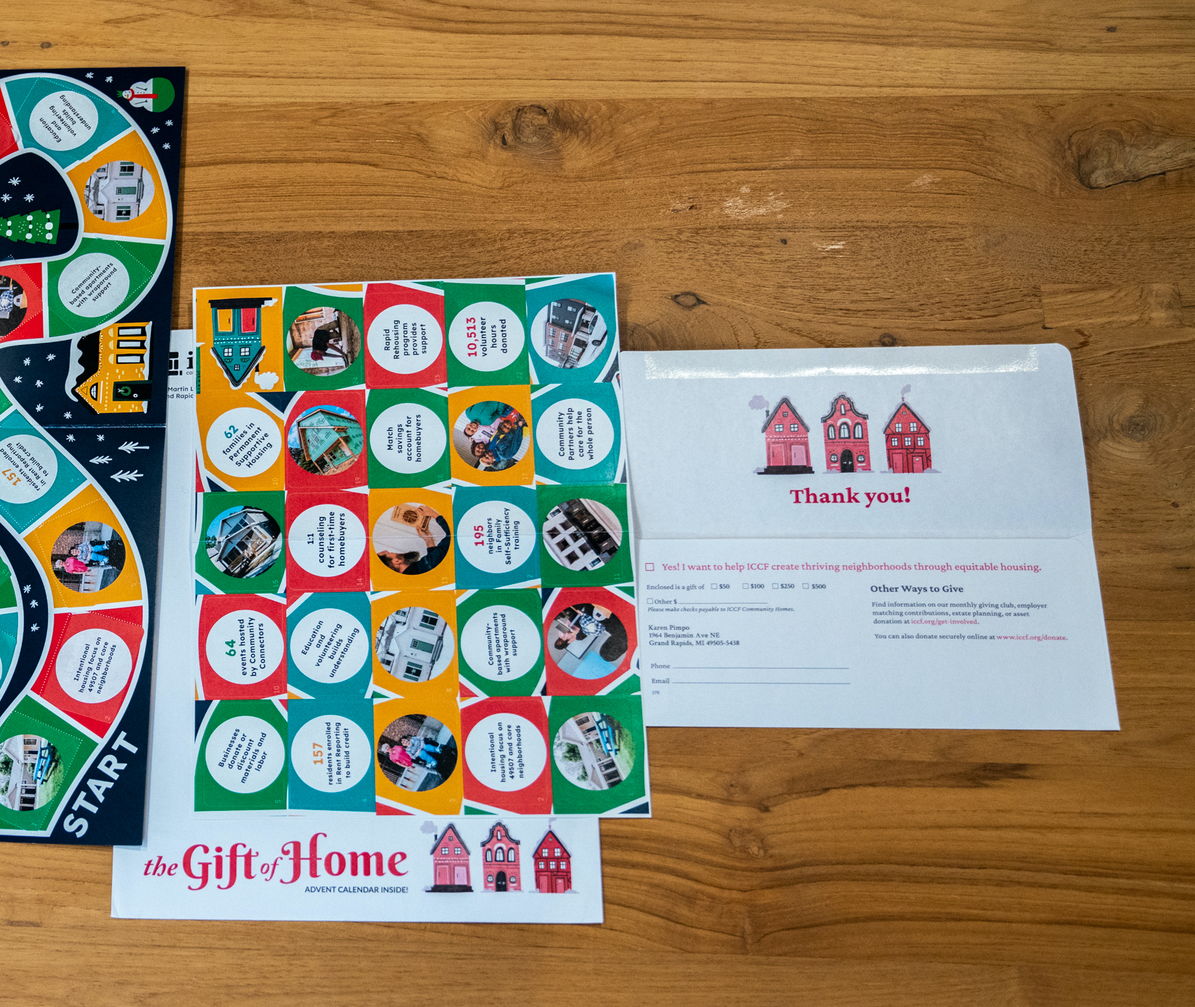
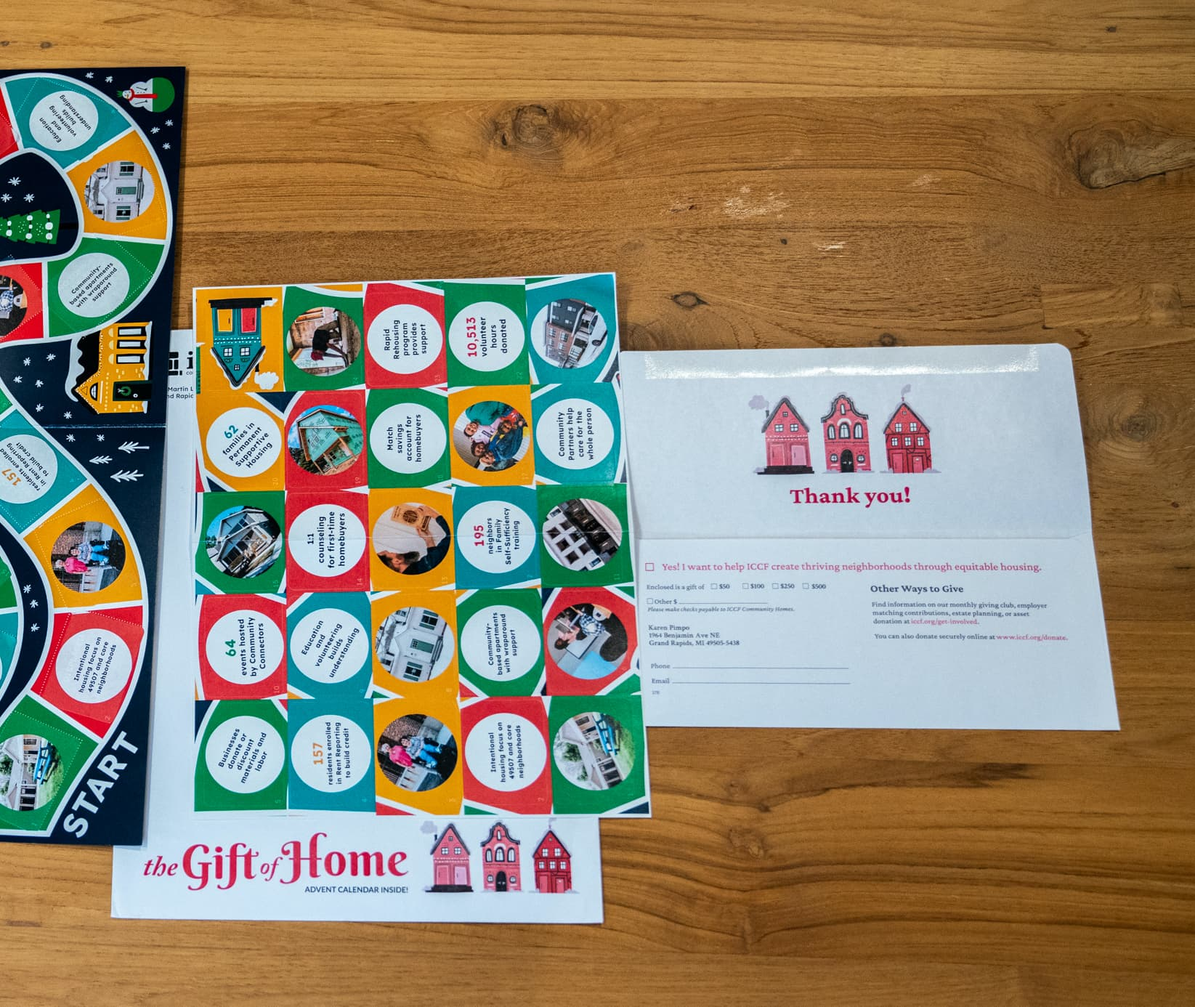
Squooshed all images

diff --git a/index.html b/index.html
@@ -54,18 +54,18 @@
                 <!-- project containter id doesn't need to be ordered or named anything specific, just unique. They can be shuffled around, they're just used to reference everything inside it. In this case, I'm copy-pasting the name of the folder the assets can be found in.-->
                 <div class="project-container" id="project-Harvest">
                     <div class="preview-container">
-                        <img class="preview-image" src="assets/projects/Harvest/preview.png">
+                        <img class="preview-image" src="assets/projects/Harvest/preview.jpg">
                     </div>
                     <div class="project-content">
                         <div class="list-wrapper slideshow hiddenProjectPiece">
                             <ul class="list">
                                 <li class="item"><div class="slider-content"><img src="assets/projects/Harvest/1.gif"></div></li>
-                                <li class="item"><div class="slider-content"><img src="assets/projects/Harvest/2.png"></div></li>
-                                <li class="item"><div class="slider-content"><img src="assets/projects/Harvest/3.png"></div></li>
-                                <li class="item"><div class="slider-content"><img src="assets/projects/Harvest/4.png"></div></li>
-                                <li class="item"><div class="slider-content"><img src="assets/projects/Harvest/5.png"></div></li>
-                                <li class="item"><div class="slider-content"><img src="assets/projects/Harvest/6.png"></div></li>
-                                <li class="item"><div class="slider-content"><img src="assets/projects/Harvest/7.png"></div></li>
+                                <li class="item"><div class="slider-content"><img src="assets/projects/Harvest/2.jpg"></div></li>
+                                <li class="item"><div class="slider-content"><img src="assets/projects/Harvest/3.jpg"></div></li>
+                                <li class="item"><div class="slider-content"><img src="assets/projects/Harvest/4.jpg"></div></li>
+                                <li class="item"><div class="slider-content"><img src="assets/projects/Harvest/5.jpg"></div></li>
+                                <li class="item"><div class="slider-content"><img src="assets/projects/Harvest/6.jpg"></div></li>
+                                <li class="item"><div class="slider-content"><img src="assets/projects/Harvest/7.jpg"></div></li>
                             </ul>
                             <!-- We're calling `handleClick` with a direction argument when the buttons are clicked -->
                             <button onclick="handleClick(this.parentElement.parentElement.parentNode.id,'previous')" class="slider-button slider-button--previous" type="button">←</button>
@@ -94,18 +94,18 @@
                 </div>
                 <div class="project-container" id="project-Bethel_Website">
                     <div class="preview-container">
-                        <img class="preview-image" src="assets/projects/Bethel_Website/preview.png">
+                        <img class="preview-image" src="assets/projects/Bethel_Website/preview.jpg">
                     </div>
                     <div class="project-content">
                         <div class="list-wrapper slideshow hiddenProjectPiece">
                             <ul class="list">
                                 <li class="item"><div class="slider-content"><img src="assets/projects/Bethel_Website/1.gif"></div></li>
-                                <li class="item"><div class="slider-content"><img src="assets/projects/Bethel_Website/2.png"></div></li>
+                                <li class="item"><div class="slider-content"><img src="assets/projects/Bethel_Website/2.jpg"></div></li>
                                 <li class="item"><div class="slider-content"><img src="assets/projects/Bethel_Website/3.gif"></div></li>
                                 <li class="item"><div class="slider-content"><img src="assets/projects/Bethel_Website/4.gif"></div></li>
-                                <li class="item"><div class="slider-content"><img src="assets/projects/Bethel_Website/5.png"></div></li>
+                                <li class="item"><div class="slider-content"><img src="assets/projects/Bethel_Website/5.jpg"></div></li>
                                 <li class="item"><div class="slider-content"><img src="assets/projects/Bethel_Website/6.gif"></div></li>
-                                <li class="item"><div class="slider-content"><img src="assets/projects/Bethel_Website/7.png"></div></li>
+                                <li class="item"><div class="slider-content"><img src="assets/projects/Bethel_Website/7.jpg"></div></li>
                                 <li class="item"><div class="slider-content"><img src="assets/projects/Bethel_Website/8.gif"></div></li>
                             </ul>
                             <!-- We're calling `handleClick` with a direction argument when the buttons are clicked -->
@@ -134,7 +134,7 @@
                 </div>
                 <div class="project-container" id="project-ICCF_AdventCalendar2023">
                     <div class="preview-container">
-                        <img class="preview-image" src="assets/projects/ICCF_AdventCalendar2023/1-preview.png">
+                        <img class="preview-image" src="assets/projects/ICCF_AdventCalendar2023/1-preview.jpg">
                     </div>
                     <div class="project-content">
                         <div class="list-wrapper slideshow hiddenProjectPiece">
@@ -179,11 +179,11 @@
                         <div class="list-wrapper slideshow hiddenProjectPiece">
                             <ul class="list">
                                 <li class="item"><div class="slider-content"><img src="assets/projects/PWP_Brand/1.jpg"></div></li>
-                                <li class="item"><div class="slider-content"><img src="assets/projects/PWP_Brand/2.png"></div></li>
-                                <li class="item"><div class="slider-content"><img src="assets/projects/PWP_Brand/3.png"></div></li>
-                                <li class="item"><div class="slider-content"><img src="assets/projects/PWP_Brand/4.png"></div></li>
-                                <li class="item"><div class="slider-content"><img src="assets/projects/PWP_Brand/5.png"></div></li>
-                                <li class="item"><div class="slider-content"><img src="assets/projects/PWP_Brand/6.png"></div></li>
+                                <li class="item"><div class="slider-content"><img src="assets/projects/PWP_Brand/2.jpg"></div></li>
+                                <li class="item"><div class="slider-content"><img src="assets/projects/PWP_Brand/3.jpg"></div></li>
+                                <li class="item"><div class="slider-content"><img src="assets/projects/PWP_Brand/4.jpg"></div></li>
+                                <li class="item"><div class="slider-content"><img src="assets/projects/PWP_Brand/5.jpg"></div></li>
+                                <li class="item"><div class="slider-content"><img src="assets/projects/PWP_Brand/6.jpg"></div></li>
                             </ul>
                             <!-- We're calling `handleClick` with a direction argument when the buttons are clicked -->
                             <button onclick="handleClick(this.parentElement.parentElement.parentNode.id,'previous')" class="slider-button slider-button--previous" type="button">←</button>
@@ -213,16 +213,16 @@
                 </div>
                 <div class="project-container" id="project-ICCF_AdventCalendar2022">
                     <div class="preview-container">
-                        <img class="preview-image" src="assets/projects/ICCF_AdventCalendar2022/1.png">
+                        <img class="preview-image" src="assets/projects/ICCF_AdventCalendar2022/1.jpg">
                     </div>
                     <div class="project-content">
                         <div class="list-wrapper slideshow hiddenProjectPiece">
                             <ul class="list">
-                                <li class="item"><div class="slider-content"><img src="assets/projects/ICCF_AdventCalendar2022/1.png"></div></li>
+                                <li class="item"><div class="slider-content"><img src="assets/projects/ICCF_AdventCalendar2022/1.jpg"></div></li>
                                 <li class="item"><div class="slider-content"><img src="assets/projects/ICCF_AdventCalendar2022/2.gif"></div></li>
                                 <li class="item"><div class="slider-content"><img src="assets/projects/ICCF_AdventCalendar2022/3.jpg"></div></li>
                                 <li class="item"><div class="slider-content"><img src="assets/projects/ICCF_AdventCalendar2022/4.jpg"></div></li>
-                                <li class="item"><div class="slider-content"><img src="assets/projects/ICCF_AdventCalendar2022/5.png"></div></li>
+                                <li class="item"><div class="slider-content"><img src="assets/projects/ICCF_AdventCalendar2022/5.jpg"></div></li>
                                 <li class="item"><div class="slider-content"><img src="assets/projects/ICCF_AdventCalendar2022/6.jpg"></div></li>
                             </ul>
                             <!-- We're calling `handleClick` with a direction argument when the buttons are clicked -->
@@ -253,19 +253,19 @@
                 </div>
                 <div class="project-container" id="project-GhostRanch_FindYourPlace">
                     <div class="preview-container">
-                        <img class="preview-image" src="assets/projects/GhostRanch_FindYourPlace/1.png">
+                        <img class="preview-image" src="assets/projects/GhostRanch_FindYourPlace/1.jpg">
                     </div>
                     <div class="project-content">
                         <div class="list-wrapper slideshow hiddenProjectPiece">
                             <ul class="list">
-                                <li class="item"><div class="slider-content"><img src="assets/projects/GhostRanch_FindYourPlace/1.png"></div></li>
-                                <li class="item"><div class="slider-content"><img src="assets/projects/GhostRanch_FindYourPlace/2.png"></div></li>
-                                <li class="item"><div class="slider-content"><img src="assets/projects/GhostRanch_FindYourPlace/3.png"></div></li>
-                                <li class="item"><div class="slider-content"><img src="assets/projects/GhostRanch_FindYourPlace/4.png"></div></li>
-                                <li class="item"><div class="slider-content"><img src="assets/projects/GhostRanch_FindYourPlace/5.png"></div></li>
-                                <li class="item"><div class="slider-content"><img src="assets/projects/GhostRanch_FindYourPlace/6.png"></div></li>
-                                <li class="item"><div class="slider-content"><img src="assets/projects/GhostRanch_FindYourPlace/7.png"></div></li>
-                                <li class="item"><div class="slider-content"><img src="assets/projects/GhostRanch_FindYourPlace/8.png"></div></li>
+                                <li class="item"><div class="slider-content"><img src="assets/projects/GhostRanch_FindYourPlace/1.jpg"></div></li>
+                                <li class="item"><div class="slider-content"><img src="assets/projects/GhostRanch_FindYourPlace/2.jpg"></div></li>
+                                <li class="item"><div class="slider-content"><img src="assets/projects/GhostRanch_FindYourPlace/3.jpg"></div></li>
+                                <li class="item"><div class="slider-content"><img src="assets/projects/GhostRanch_FindYourPlace/4.jpg"></div></li>
+                                <li class="item"><div class="slider-content"><img src="assets/projects/GhostRanch_FindYourPlace/5.jpg"></div></li>
+                                <li class="item"><div class="slider-content"><img src="assets/projects/GhostRanch_FindYourPlace/6.jpg"></div></li>
+                                <li class="item"><div class="slider-content"><img src="assets/projects/GhostRanch_FindYourPlace/7.jpg"></div></li>
+                                <li class="item"><div class="slider-content"><img src="assets/projects/GhostRanch_FindYourPlace/8.jpg"></div></li>
                             </ul>
                             <!-- We're calling `handleClick` with a direction argument when the buttons are clicked -->
                             <button onclick="handleClick(this.parentElement.parentElement.parentNode.id,'previous')" class="slider-button slider-button--previous" type="button">←</button>
@@ -293,14 +293,14 @@
                 </div>
                 <div class="project-container" id="project-Garbarino_Website">
                     <div class="preview-container">
-                        <img class="preview-image" src="assets/projects/Garbarino_Website/1-preview.png">
+                        <img class="preview-image" src="assets/projects/Garbarino_Website/1-preview.jpg">
                     </div>
                     <div class="project-content">
                         <div class="list-wrapper slideshow hiddenProjectPiece">
                             <ul class="list">
                                 <li class="item"><div class="slider-content"><img src="assets/projects/Garbarino_Website/1.gif"></div></li>
-                                <li class="item"><div class="slider-content"><img src="assets/projects/Garbarino_Website/2.png"></div></li>
-                                <li class="item"><div class="slider-content"><img src="assets/projects/Garbarino_Website/3.png"></div></li>
+                                <li class="item"><div class="slider-content"><img src="assets/projects/Garbarino_Website/2.jpg"></div></li>
+                                <li class="item"><div class="slider-content"><img src="assets/projects/Garbarino_Website/3.jpg"></div></li>
                             </ul>
                             <!-- We're calling `handleClick` with a direction argument when the buttons are clicked -->
                             <button onclick="handleClick(this.parentElement.parentElement.parentNode.id,'previous')" class="slider-button slider-button--previous" type="button">←</button>
@@ -328,20 +328,20 @@
                 </div>
                 <div class="project-container" id="project-SOTAC_Brand">
                     <div class="preview-container">
-                        <img class="preview-image" src="assets/projects/SOTAC_Brand/1.png">
+                        <img class="preview-image" src="assets/projects/SOTAC_Brand/1.jpg">
                     </div>
                     <div class="project-content">
                         <div class="list-wrapper slideshow hiddenProjectPiece">
                             <ul class="list">
-                                <li class="item"><div class="slider-content"><img src="assets/projects/SOTAC_Brand/1.png"></div></li>
-                                <li class="item"><div class="slider-content"><img src="assets/projects/SOTAC_Brand/2.png"></div></li>
-                                <li class="item"><div class="slider-content"><img src="assets/projects/SOTAC_Brand/3.png"></div></li>
-                                <li class="item"><div class="slider-content"><img src="assets/projects/SOTAC_Brand/4.png"></div></li>
-                                <li class="item"><div class="slider-content"><img src="assets/projects/SOTAC_Brand/5.png"></div></li>
+                                <li class="item"><div class="slider-content"><img src="assets/projects/SOTAC_Brand/1.jpg"></div></li>
+                                <li class="item"><div class="slider-content"><img src="assets/projects/SOTAC_Brand/2.jpg"></div></li>
+                                <li class="item"><div class="slider-content"><img src="assets/projects/SOTAC_Brand/3.jpg"></div></li>
+                                <li class="item"><div class="slider-content"><img src="assets/projects/SOTAC_Brand/4.jpg"></div></li>
+                                <li class="item"><div class="slider-content"><img src="assets/projects/SOTAC_Brand/5.jpg"></div></li>
                                 <li class="item"><div class="slider-content"><img src="assets/projects/SOTAC_Brand/6.jpg"></div></li>
-                                <li class="item"><div class="slider-content"><img src="assets/projects/SOTAC_Brand/7.png"></div></li>
-                                <li class="item"><div class="slider-content"><img src="assets/projects/SOTAC_Brand/8.png"></div></li>
-                                <li class="item"><div class="slider-content"><img src="assets/projects/SOTAC_Brand/9.png"></div></li>
+                                <li class="item"><div class="slider-content"><img src="assets/projects/SOTAC_Brand/7.jpg"></div></li>
+                                <li class="item"><div class="slider-content"><img src="assets/projects/SOTAC_Brand/8.jpg"></div></li>
+                                <li class="item"><div class="slider-content"><img src="assets/projects/SOTAC_Brand/9.jpg"></div></li>
                             </ul>
                             <!-- We're calling `handleClick` with a direction argument when the buttons are clicked -->
                             <button onclick="handleClick(this.parentElement.parentElement.parentNode.id,'previous')" class="slider-button slider-button--previous" type="button">←</button>

diff --git a/style.css b/style.css
@@ -255,7 +255,7 @@ ul.list > li:before {
     justify-content: center;
     height: 100%;
     width: auto%;
-    background-color: orange;
+    background-color: var(--dark);
 }
 
 .slider-content img {
